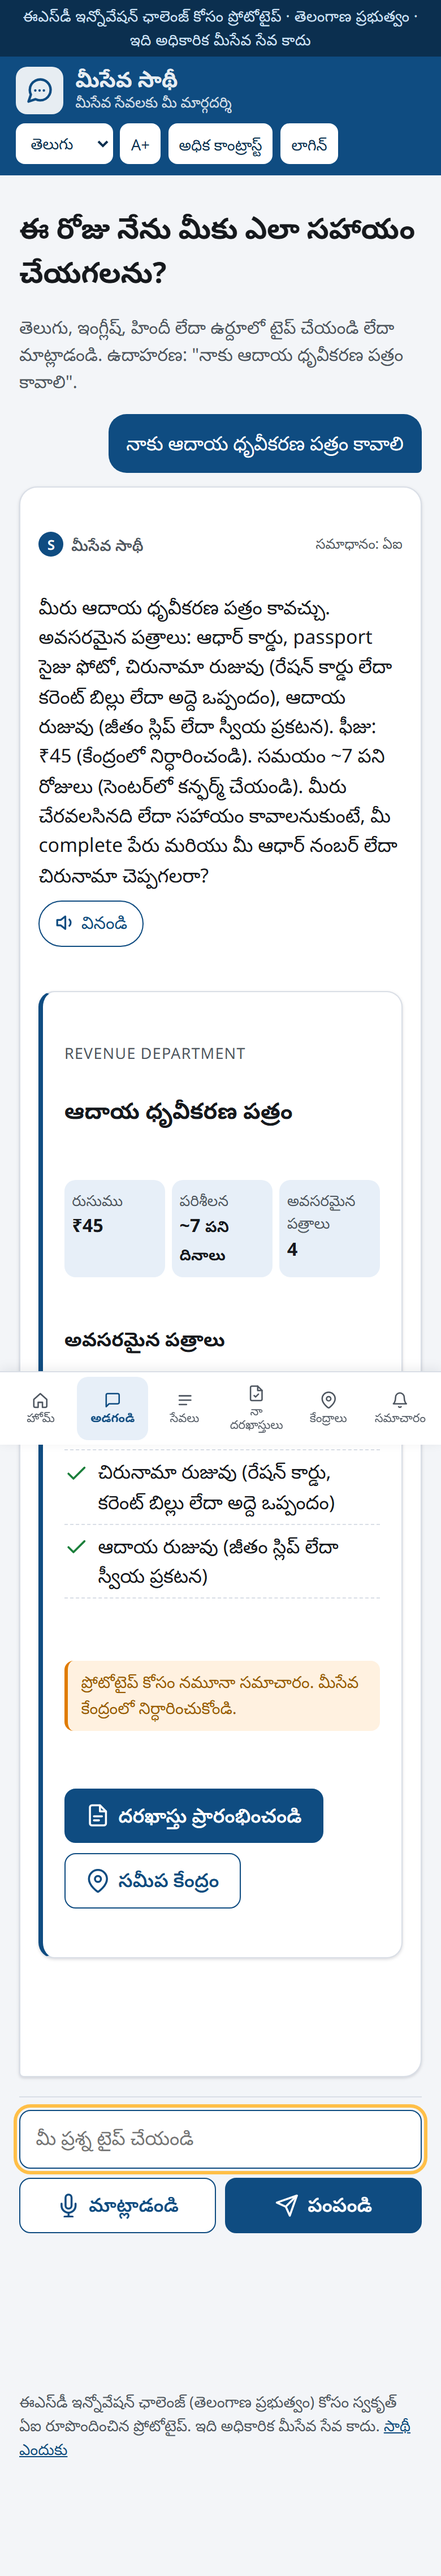
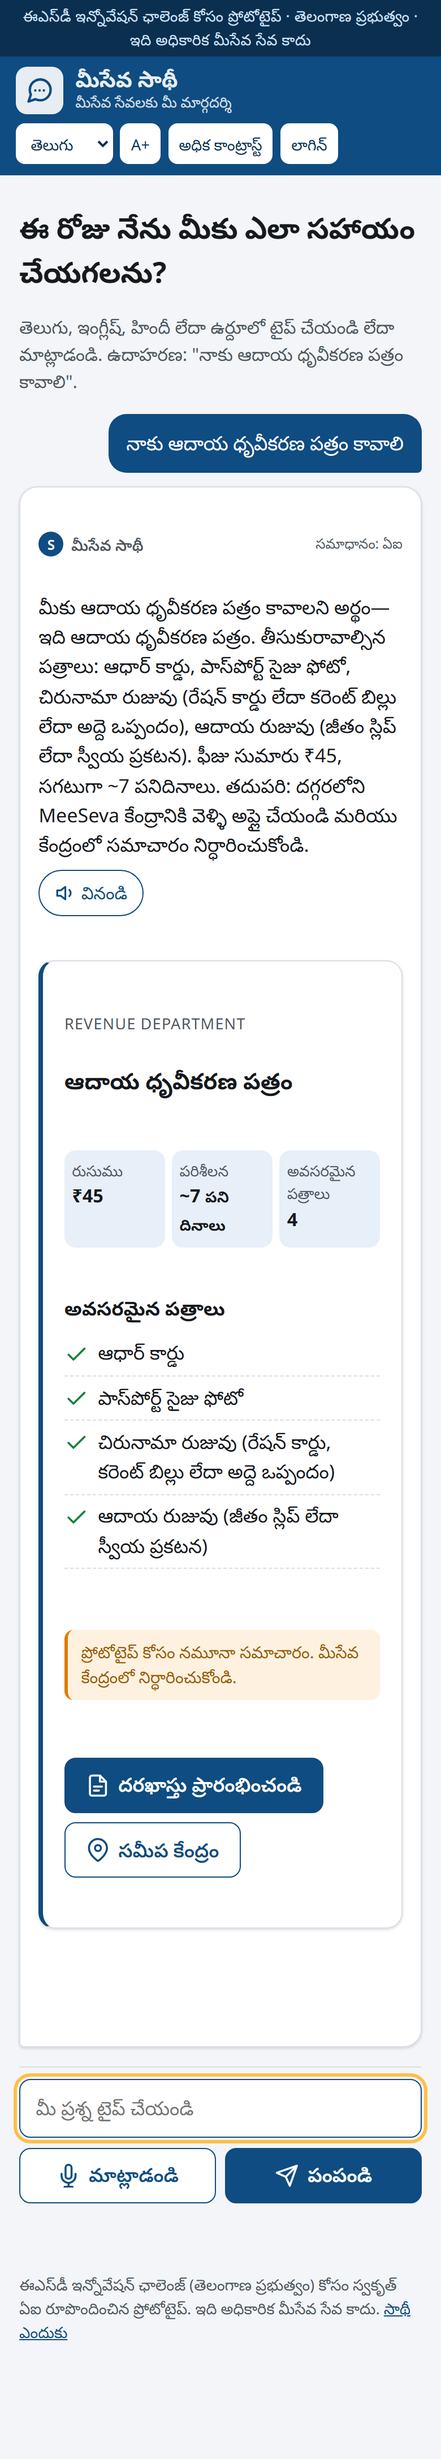
Screenshots without the fixed tab bar overlapping; AI never echoes service names in brackets

diff --git a/app/assistant.py b/app/assistant.py
@@ -141,7 +141,7 @@ def answer(db: Session, text: str, lang_hint: str = "en") -> dict:
         try:
             out = _llm_answer(db, text, lang, [svc.code for svc, _ in ranked[:3]])
             svc = db.query(Service).filter(Service.code == out.get("service_code")).first() if out.get("service_code") else None
-            if lang != "en" and out.get("reply"):  # the model sometimes echoes the English reference name; citizens do not need it
+            if out.get("reply"):  # the model sometimes echoes the English reference name; citizens do not need it
                 for s_ in db.query(Service).all():
                     out["reply"] = out["reply"].replace(f" ({s_.name_en})", "").replace(f"({s_.name_en})", "")
             return {
